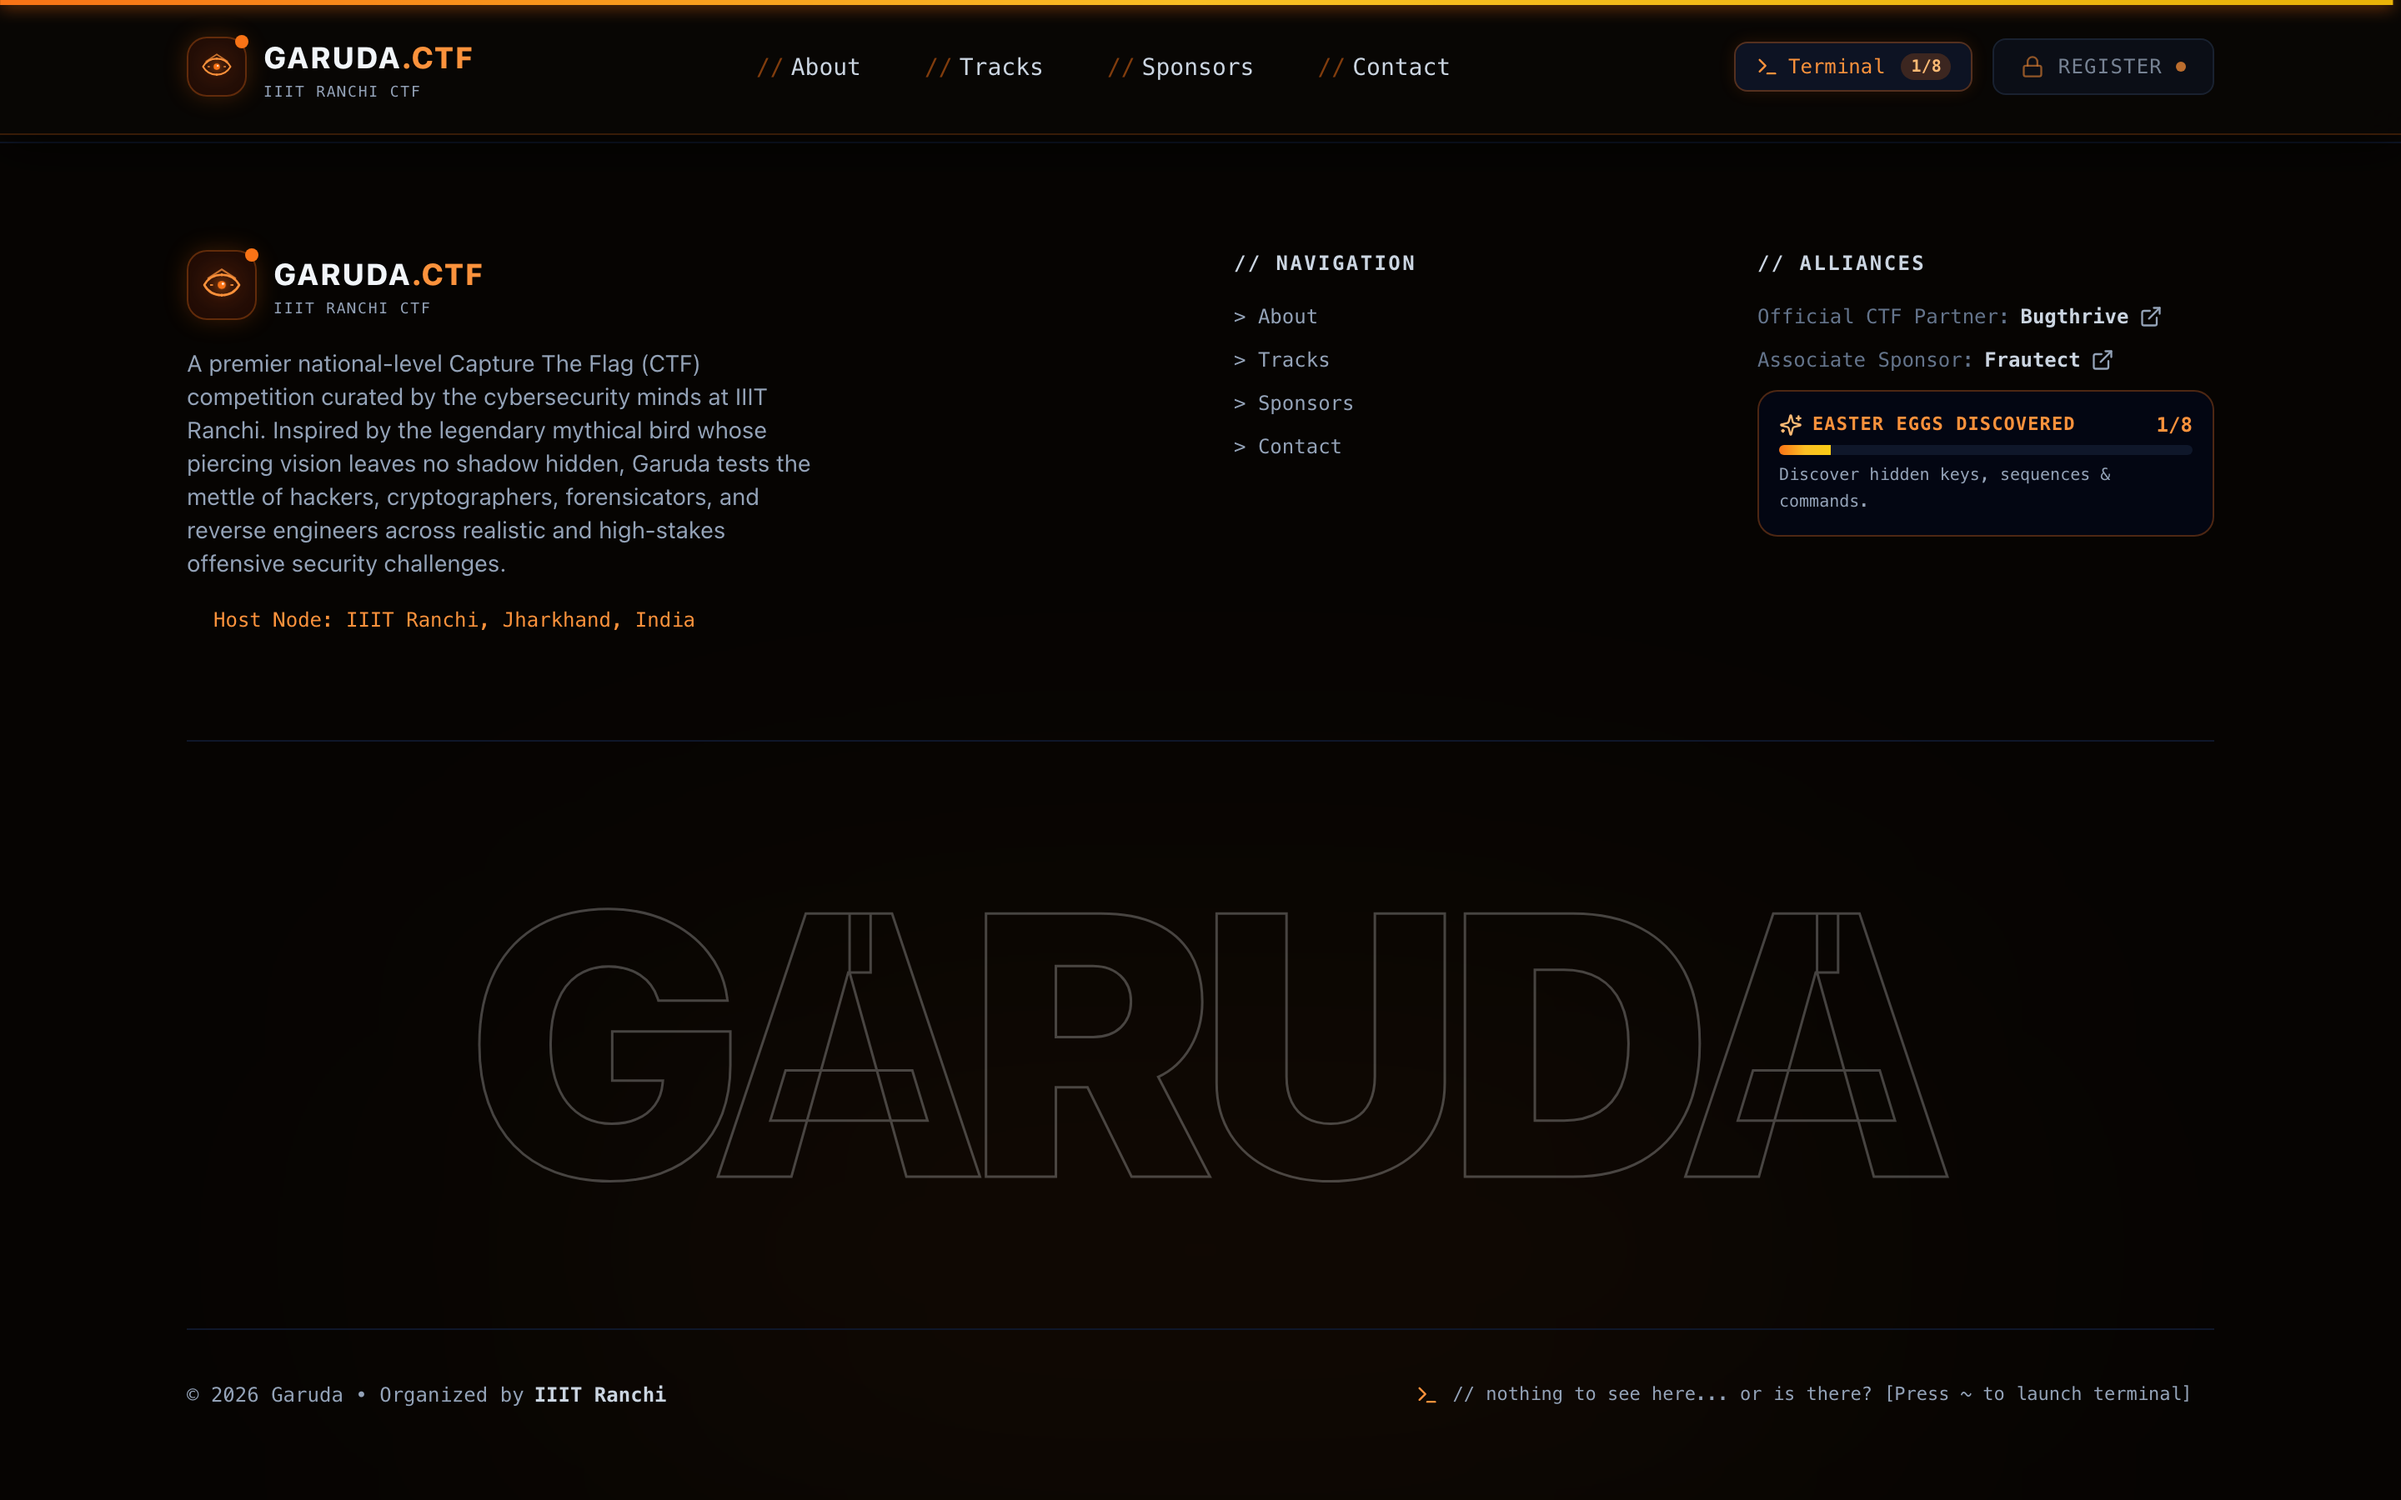
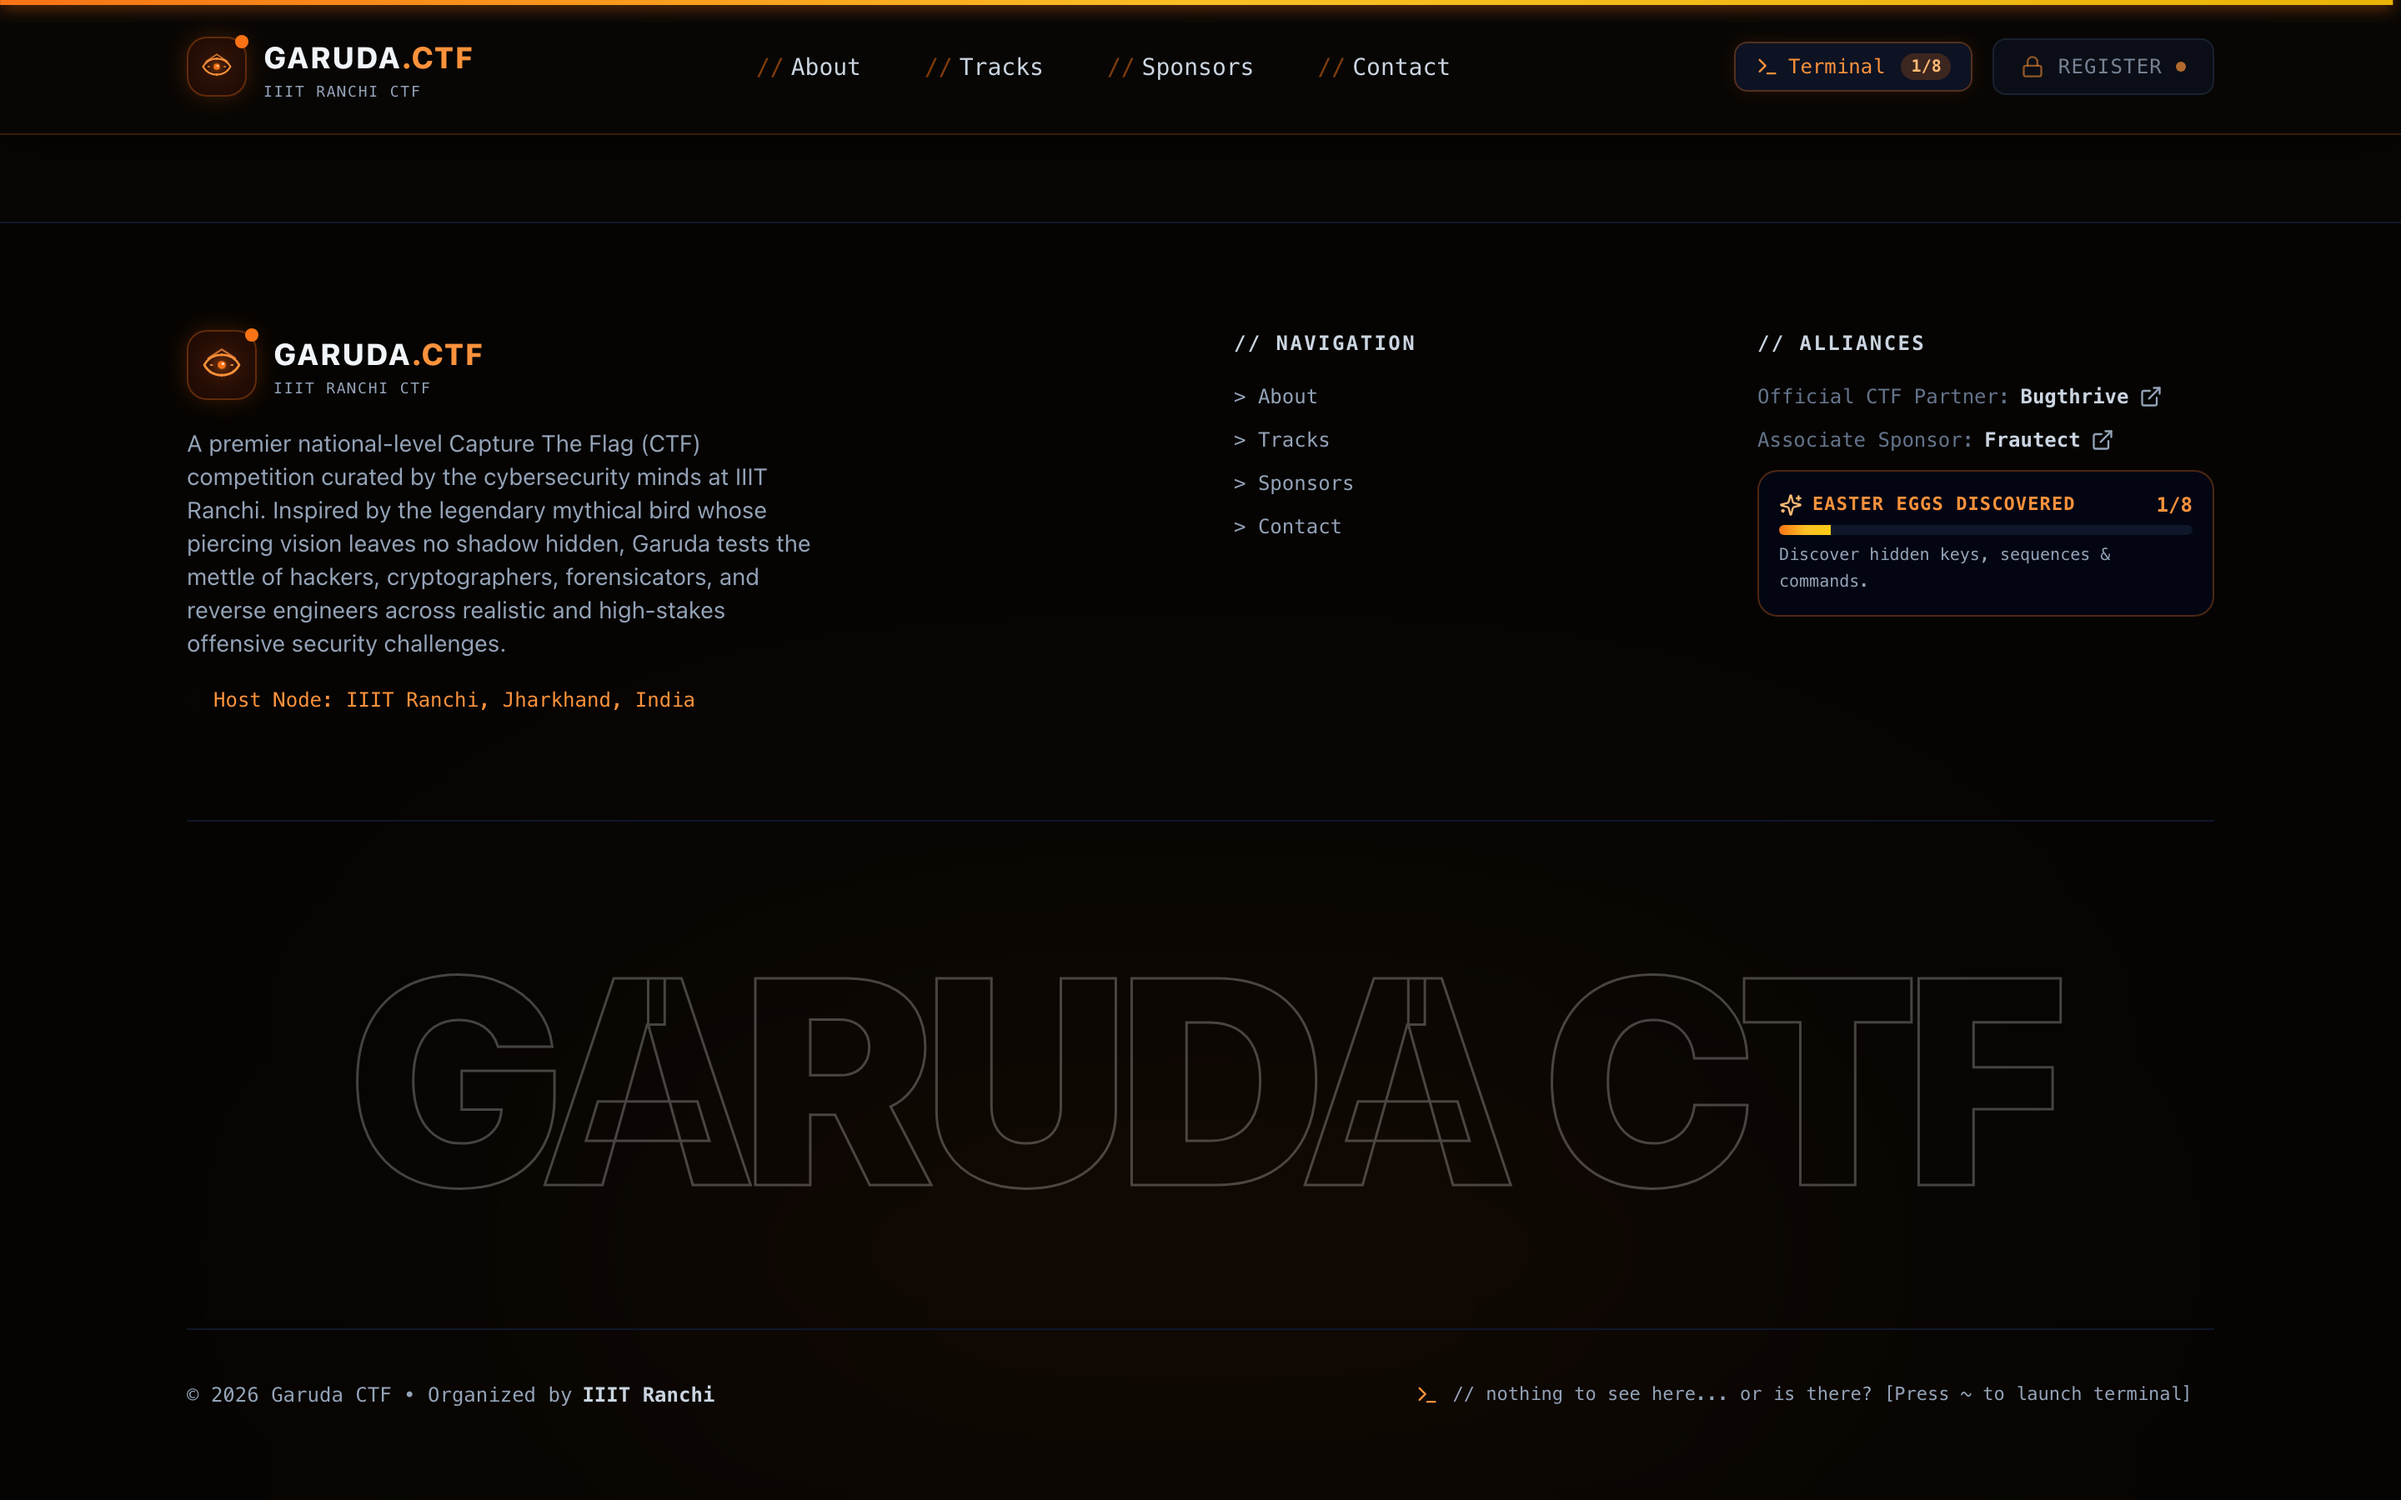
Changed name to Garuda CTF

diff --git a/components/Manifesto.tsx b/components/Manifesto.tsx
@@ -33,7 +33,7 @@ export function Manifesto() {
   });
 
   const manifestoText =
-    "We believe true cybersecurity isn't forged in sterile textbooks or compliance checklists—it is born in the heat of battle. Hosted by IIIT Ranchi, Garuda summons student hackers, security researchers, and binary detectives from across the nation to test their vision against complex real-world threat vectors. Like the mythical bird that pierces every illusion and commands the skies, you will dissect web architectures, reverse-engineer obfuscated binaries, unravel memory traces, and shatter cryptographic primitives. No artificial boundaries. Just pure offensive curiosity, resilient tradecraft, and the relentless pursuit of the root shell.";
+    "We believe true cybersecurity isn't forged in sterile textbooks or compliance checklists—it is born in the heat of battle. Hosted by IIIT Ranchi, Garuda CTF summons student hackers, security researchers, and binary detectives from across the nation to test their vision against complex real-world threat vectors. Like the mythical bird that pierces every illusion and commands the skies, you will dissect web architectures, reverse-engineer obfuscated binaries, unravel memory traces, and shatter cryptographic primitives. No artificial boundaries. Just pure offensive curiosity, resilient tradecraft, and the relentless pursuit of the root shell.";
 
   const words = manifestoText.split(" ");
 
@@ -82,7 +82,7 @@ export function Manifesto() {
         </div>
 
         <h2 className="text-2xl sm:text-4xl font-mono font-bold text-slate-100 uppercase tracking-tight mb-8">
-          <DecryptText text="The Garuda Protocol" />
+          <DecryptText text="The Garuda CTF Protocol" />
         </h2>
 
         {/* Scroll-Reveal Words Manifesto Paragraph */}

diff --git a/components/Hero.tsx b/components/Hero.tsx
@@ -48,13 +48,13 @@ export function Hero() {
 
         {/* Main Headline with Text Scramble */}
         <div className="relative my-2">
-          <h1 className="text-6xl sm:text-8xl md:text-9xl lg:text-[10rem] font-black tracking-tight uppercase text-transparent bg-clip-text bg-gradient-to-b from-white via-slate-100 to-slate-400 drop-shadow-[0_0_40px_rgba(249,115,22,0.35)]">
+          <h1 className="text-5xl sm:text-7xl md:text-8xl lg:text-[8.5rem] font-black tracking-tight uppercase text-transparent bg-clip-text bg-gradient-to-b from-white via-slate-100 to-slate-400 drop-shadow-[0_0_40px_rgba(249,115,22,0.35)] leading-none">
             <DecryptText text={EVENT_DETAILS.name} speed={40} delay={200} />
           </h1>
 
           {/* Glitch chromatic overlay clone on hover */}
           <div className="absolute inset-0 pointer-events-none select-none opacity-0 hover:opacity-100 transition-opacity">
-            <span className="text-6xl sm:text-8xl md:text-9xl lg:text-[10rem] font-black tracking-tight uppercase text-orange-500/20 blur-[1px]">
+            <span className="text-5xl sm:text-7xl md:text-8xl lg:text-[8.5rem] font-black tracking-tight uppercase text-orange-500/20 blur-[1px] leading-none">
               {EVENT_DETAILS.name}
             </span>
           </div>

diff --git a/components/Footer.tsx b/components/Footer.tsx
@@ -124,10 +124,10 @@ export function Footer() {
         <div className="py-12 sm:py-16 text-center overflow-hidden">
           <h2
             onClick={handlePromptClick}
-            className="text-6xl sm:text-8xl md:text-9xl lg:text-[14rem] font-black tracking-tighter uppercase transition-all duration-500 cursor-pointer select-none text-transparent stroke-text hover:text-orange-400 hover:drop-shadow-[0_0_60px_rgba(249,115,22,0.5)]"
+            className="text-5xl sm:text-7xl md:text-8xl lg:text-[11rem] font-black tracking-tighter uppercase transition-all duration-500 cursor-pointer select-none text-transparent stroke-text hover:text-orange-400 hover:drop-shadow-[0_0_60px_rgba(249,115,22,0.5)] leading-none"
             title="Click to spawn command prompt"
           >
-            GARUDA
+            GARUDA CTF
           </h2>
         </div>
 

diff --git a/data/event.ts b/data/event.ts
@@ -9,7 +9,7 @@
 export const EVENT_DATE = "2026-11-18T00:00:00+05:30";
 
 export const EVENT_DETAILS = {
-  name: "Garuda",
+  name: "Garuda CTF",
   tagline: "Hack. Decode. Capture.",
   host: "Indian Institute of Information Technology Ranchi (IIIT Ranchi)",
   hostShort: "IIIT Ranchi",
